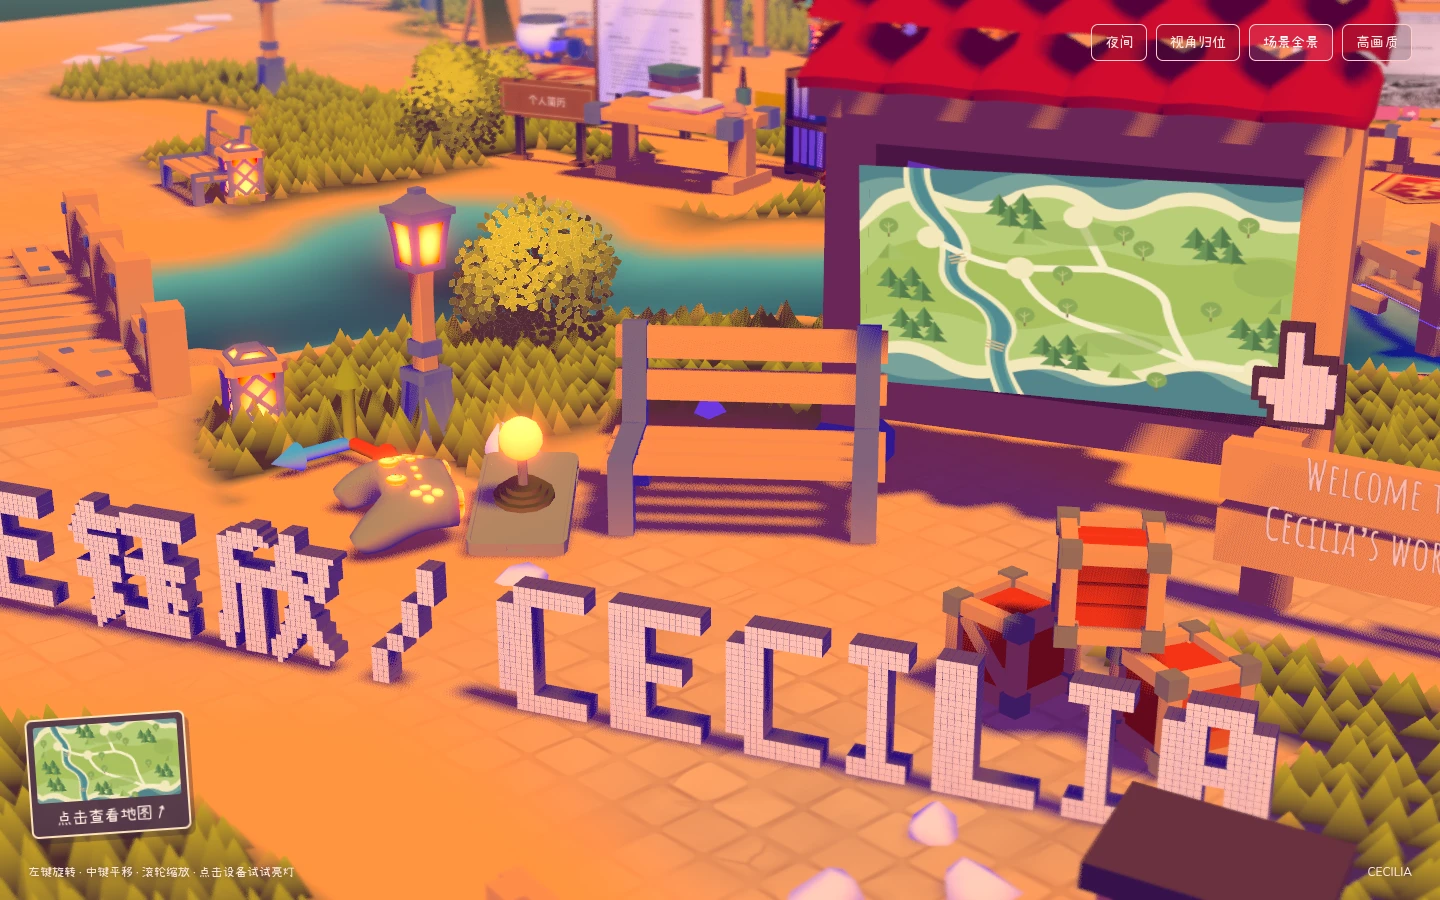
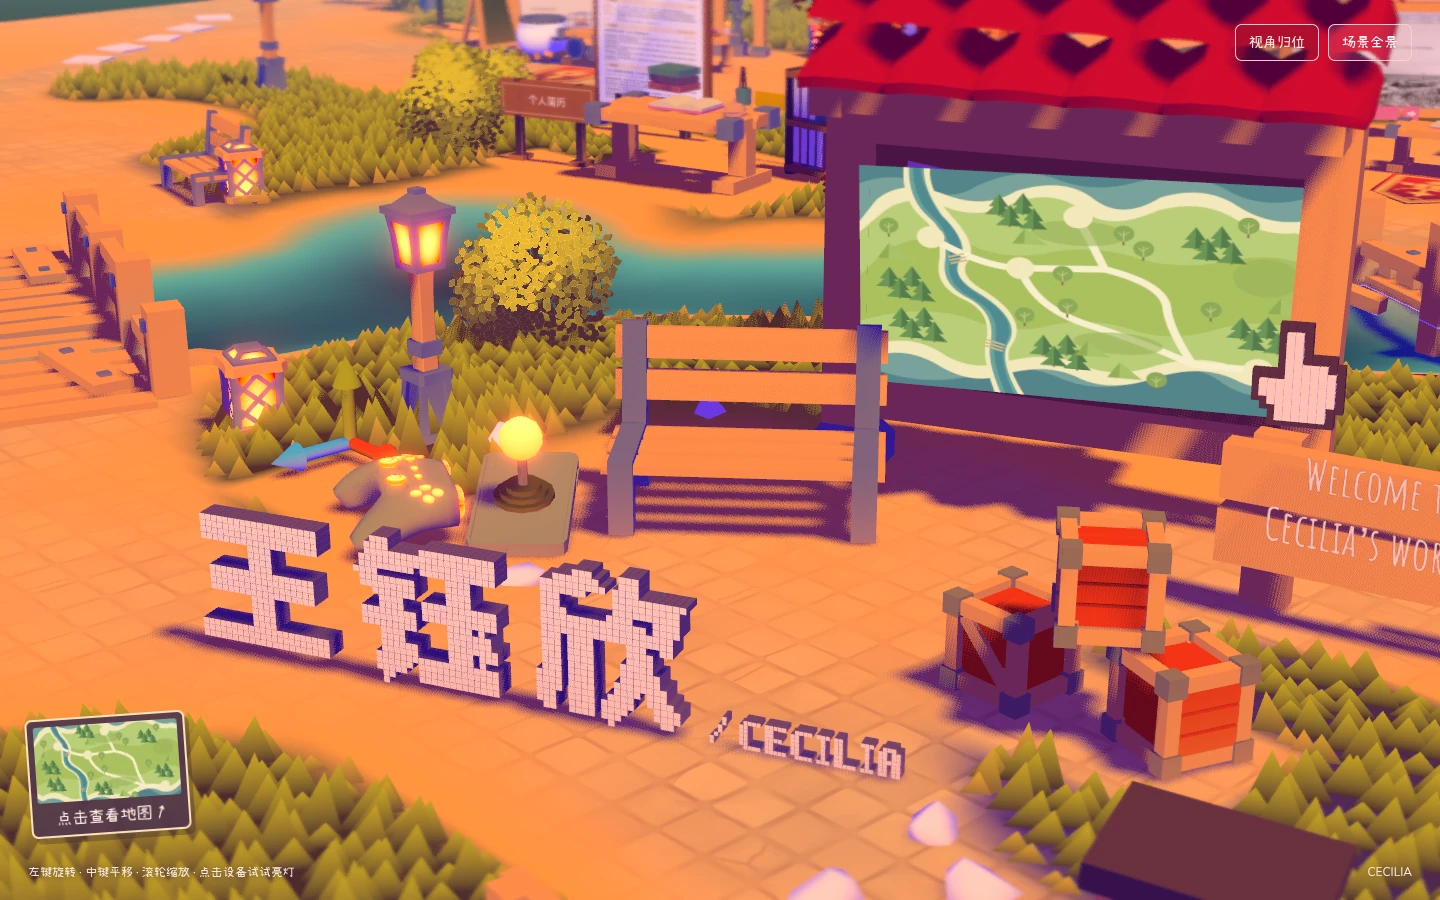
Finalize reader motion preference handling and preserve page artwork proportions

diff --git a/portfolio.css b/portfolio.css
@@ -13,7 +13,7 @@ main{height:100svh;padding:16px 20px;display:flex;flex-direction:column;align-it
 .paper{position:relative;background:transparent;overflow:visible;backface-visibility:visible}
 .paper-surface{position:absolute;inset:var(--inset) 0 var(--inset) var(--inset);background:#fffdf6;overflow:hidden;box-shadow:0 1px 0 #d0c7b6,0 3px 0 #eee7d8,0 4px 0 #cec5b3}
 .paper.--right .paper-surface{inset:var(--inset) var(--inset) var(--inset) 0}
-.paper img{position:absolute;inset:0;width:100%;height:100%;display:block;object-fit:fill;user-select:none;-webkit-user-drag:none;pointer-events:none}
+.paper img{position:absolute;inset:0;width:100%;height:100%;display:block;object-fit:contain;user-select:none;-webkit-user-drag:none;pointer-events:none}
 .paper-surface:after{content:"";position:absolute;inset:0;pointer-events:none;background:linear-gradient(to left,#211a1738,#382e211a 2%,#49372708 5%,transparent 9%)}
 .paper.--right .paper-surface:after{background:linear-gradient(to right,#211a1738,#382e211a 2%,#49372708 5%,transparent 9%)}
 .paper.--hard{background:var(--cover);border:1px solid #207f92;filter:drop-shadow(4px 8px 9px #30291d25)}
@@ -46,7 +46,7 @@ main{height:100svh;padding:16px 20px;display:flex;flex-direction:column;align-it
 .gazette-page main:fullscreen,.gazette-page main.is-expanded{width:100vw;height:100dvh;max-width:none}
 .gazette-page main.is-expanded{position:fixed;inset:0;z-index:1000}
 @media(max-width:700px){.reader-toolbar{font-size:11px;padding:8px 10px}.reader-toolbar>span{display:none}.reader-toolbar>div{gap:12px}}
-@media(prefers-reduced-motion:reduce){.reader[data-entering=true] .book-pose{animation:none!important;transform:none!important}.book-shell{transition:none!important}}
+@media(prefers-reduced-motion:reduce){.reader[data-entering=true] .book-pose{animation:none!important;transform:none!important;pointer-events:auto}.book-shell{transition:none!important}}
 .paper[data-pdf-page="1"]{border-radius:2px 9px 9px 2px}
 .paper[data-pdf-page="31"]{border-radius:9px 2px 2px 9px}
 .paper[data-pdf-page="1"] .paper-surface,.paper[data-pdf-page="31"] .paper-surface{border-radius:inherit;overflow:hidden}

diff --git a/portfolio.js b/portfolio.js
@@ -104,6 +104,7 @@
     reader.dataset.entering='true';
     reader.querySelector('.book-pose').addEventListener('animationend',()=>{delete reader.dataset.entering;},{once:true});
   }
+  reduced.addEventListener('change',()=>{if(reduced.matches)delete reader.dataset.entering;});
   function syncFullscreen(){
     const active=!!document.fullscreenElement||stage.classList.contains('is-expanded');
     fullscreen.setAttribute('aria-pressed',String(active));fullscreen.textContent=active?'退出全屏 ⛶':'全屏阅读 ⛶';

diff --git a/experiments/bruno-projects/README.md b/experiments/bruno-projects/README.md
@@ -13,12 +13,12 @@
 - 所有模型及 `src/bruno/` 视觉模块来自官方提交，见 `ASSET_SOURCE.md`。GLB 不重新设计，二进制 SHA256 见 `public/bruno/manifest.json`。
 - 自定义 `Game` 只提供视觉模块依赖，不启动驾驶、物理、后台或其他游戏区。`ProjectsArea` 使用原版视觉方法，两个枚举导入指向 `preview-contract.js`；无车辆节点进入场景。
 - 使用原版 palette、MeshDefaultMaterial、Lighting、Fog、Terrain、Floor、Grass、Trees、Foliage、Noises、Wind、项目图片翻页、木牌文字翻转、锻炉／磨轮／铁砧动画、bloom 与 cheapDOF。
-- 固定原版 day/night 预设。地面范围按原 `View.setOptimalArea` 的 16:9 高画质默认视锥计算，手机仅适配作品近景取景；这不是原完整游戏和所有天气玩法的移植。
+- 固定已确认的原版 day 初始效果，保留 bloom 与 cheapDOF，不提供夜间或画质切换。地面范围按原 `View.setOptimalArea` 的 16:9 默认视锥计算，手机仅适配作品近景取景；这不是原完整游戏和所有天气玩法的移植。
 - 移除用户未提供的获奖徽章；原英文标签图集在运行时以中文手写字替换，空置的荣誉台标签改为“设计档案”，不表示用户获奖。模型二进制保持原版。
 - 项目标题、学校和地点名保留英文；界面、角色与合作方式改为中文。中文使用用户确认的 OFL 授权小赖字体 Xiaolai Regular v3.126 子集（https://github.com/lxgw/kose-font/releases/tag/v3.126），英文项目标题仍用 Amatic SC。页面不显示底部署名，完整 MIT 版权许可仍随代码与资源发布。
 - 移除左上角完整介绍文字块，避免遮挡作品；中文提示缩小，阅读木牌文字缩小约三分之一并保留额外留白；角色／地点／合作小标题单独放大。模型、光影和交互不改变。
 - 项目预览为现有页面的浏览器截图，仅替换原展示屏内容；点击实际图片打开同站点原页面，返回保留场景与作品选择。
-- 支持拖动观察、滚轮／触屏双指缩放、原模型箭头／外部按钮／方向键切换、键盘阅读入口、日夜及高低画质。
+- 支持拖动观察、滚轮／触屏双指缩放、原模型箭头／外部按钮／方向键切换和键盘阅读入口；日间画面固定，无夜间或画质按钮。
 - 阅读器打开或页面隐藏时不渲染 3D；减少动态效果设置下关闭环境动画。
 - 首页入口 `/bruno-preview/hub.html`，主站 index.html 为兼容入口；作品集保持 `/bruno-preview/`，portfolio.html 为兼容跳转。hub 的 hash 路由为 resume / other / contact；简历正文与打印在 `resume.html?document=1`，原作品页面和素材不修改。
 

diff --git a/README.md b/README.md
@@ -5,7 +5,7 @@
 `index.html` 进入 `/bruno-preview/hub.html`：全屏可拖动的开放场景，四类入口为个人简历、作品集、其他项目、联系方式；没有驾驶系统或重复顶部分类栏。中文使用小赖字体，模型、色板、光照及后期来自已确认的 Bruno 官方 MIT 工程。来源、版权和固定提交见 `experiments/bruno-projects/ASSET_SOURCE.md`，完整许可证随资源发布。
 
 - `hub.html` / `src/hub.js`：姓名、阅读桌、实验室与联络模型及分类交互；简历入口优先，点击模型可以完整阅读。
-- `src/create-world.js`：复用原视觉模块和模型，开放地面、昼夜、植被、光影、触屏与性能选项；不启动物理、车辆或后台。
+- `src/create-world.js`：复用原视觉模块和模型，开放地面、固定日间、植被、光影与触屏；保留初始辉光和景深，不启动物理、车辆或后台，不再提供夜间/画质切换。
 - `/bruno-preview/`：保留已确认的作品展架，三件作品同级直接阅读。原项目内部画面和素材不重新设计。
 - `resume.html?document=1`、`resume-document.css`、`resume-document.js`：保留用户两页 PDF 原稿的简历阅读与打印页；`resume.html`、`works.html` 和旧书签跳至对应三维入口。旧 `world-resume.css` 仍供历史其他项目页使用，不修改。
 - QA：`tests/design-world.cjs`、`tests/portfolio-routing.cjs`、`tests/bruno-preview.cjs`、`tests/bruno-animation.cjs`。真实截图在 `experiments/bruno-projects/public/review/`。
